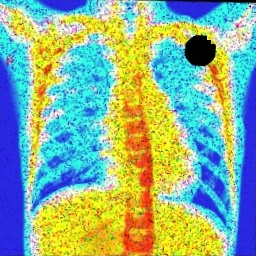
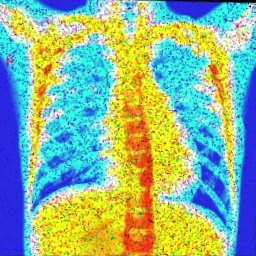
More work on report

Changed region(s): [[0.7188, 0.125, 0.875, 0.2812]]

diff --git a/main.py b/main.py
@@ -23,8 +23,8 @@ def process_images(image_names: list[str], IN_DIR: str, OUT_DIR: str):
     full_image_paths = []
     view = False
 
-    show_random_images([os.path.join(IN_DIR, image_name)
-                       for image_name in image_names], 2, 2)
+    # show_random_images([os.path.join(IN_DIR, image_name)
+    #                    for image_name in image_names], 2, 2)
 
     for image_name in image_names[16:17]:
         print(image_name)
@@ -36,22 +36,22 @@ def process_images(image_names: list[str], IN_DIR: str, OUT_DIR: str):
         if not USE_CHECKPOINT:
             # Perspective Correction
             corners = detect_corners(image)
-            cv2.imwrite("prev.png", image)
             image = perspective_correction(image, corners)
-            cv2.imwrite("after.png", image)
 
             # Inpainting the image
             circle = detect_circle(image)
+            # image = cv2.inpaint(image, circle.astype(
+            #     np.uint8), 3, cv2.INPAINT_TELEA)
             image = inpaint(image, circle, debug=True)
 
-        # Noise detection/thresholding
-        image = remove_noise(image, image_name, view=view)
-        view = False
+        # # Noise detection/thresholding
+        # image = remove_noise(image, image_name, view=view)
+        # view = False
 
-        # Colour and Contrast Adjustment
-        image = cv2.convertScaleAbs(image, alpha=1.31, beta=-41)
+        # # Colour and Contrast Adjustment
+        # image = cv2.convertScaleAbs(image, alpha=1.31, beta=-41)
 
-        image = gamma_correction(image, 1.5)
+        # image = gamma_correction(image, 1.5)
 
         # Save the images
         image_name = image_name.split('.')[0] + '.' + OUTPUT_TYPE

diff --git a/plot2.py b/plot2.py
@@ -22,7 +22,7 @@ data_cleaned.reset_index(drop=True, inplace=True)
 # Adjusting the subplot to correctly align the x labels with the x ticks
 
 # Replotting with adjusted x-tick alignment
-fig, axes = plt.subplots(nrows=1, ncols=3, figsize=(15, 5.5))
+fig, axes = plt.subplots(nrows=1, ncols=2, figsize=(10, 5.5))
 
 # Plotting Accuracy
 axes[0].plot(data_cleaned['Processing Phase'], data_cleaned['Accuracy'],
@@ -42,15 +42,6 @@ axes[1].set_title('RMSE by Processing Phase')
 axes[1].set_ylabel('RMSE')
 axes[1].set_xticks(data_cleaned['Processing Phase'])
 axes[1].set_xticklabels(data_cleaned['Processing Phase'],
-                        rotation=45, ha="right", rotation_mode='anchor')
-
-# Plotting BRISQUE
-axes[2].plot(data_cleaned['Processing Phase'], data_cleaned['BRISQUE'],
-             marker='o', linestyle='-', color='lightgreen')
-axes[2].set_title('BRISQUE by Processing Phase')
-axes[2].set_ylabel('BRISQUE')
-axes[2].set_xticks(data_cleaned['Processing Phase'])
-axes[2].set_xticklabels(data_cleaned['Processing Phase'],
                         rotation=45, ha="right", rotation_mode='anchor')
 
 # Adjust layout
